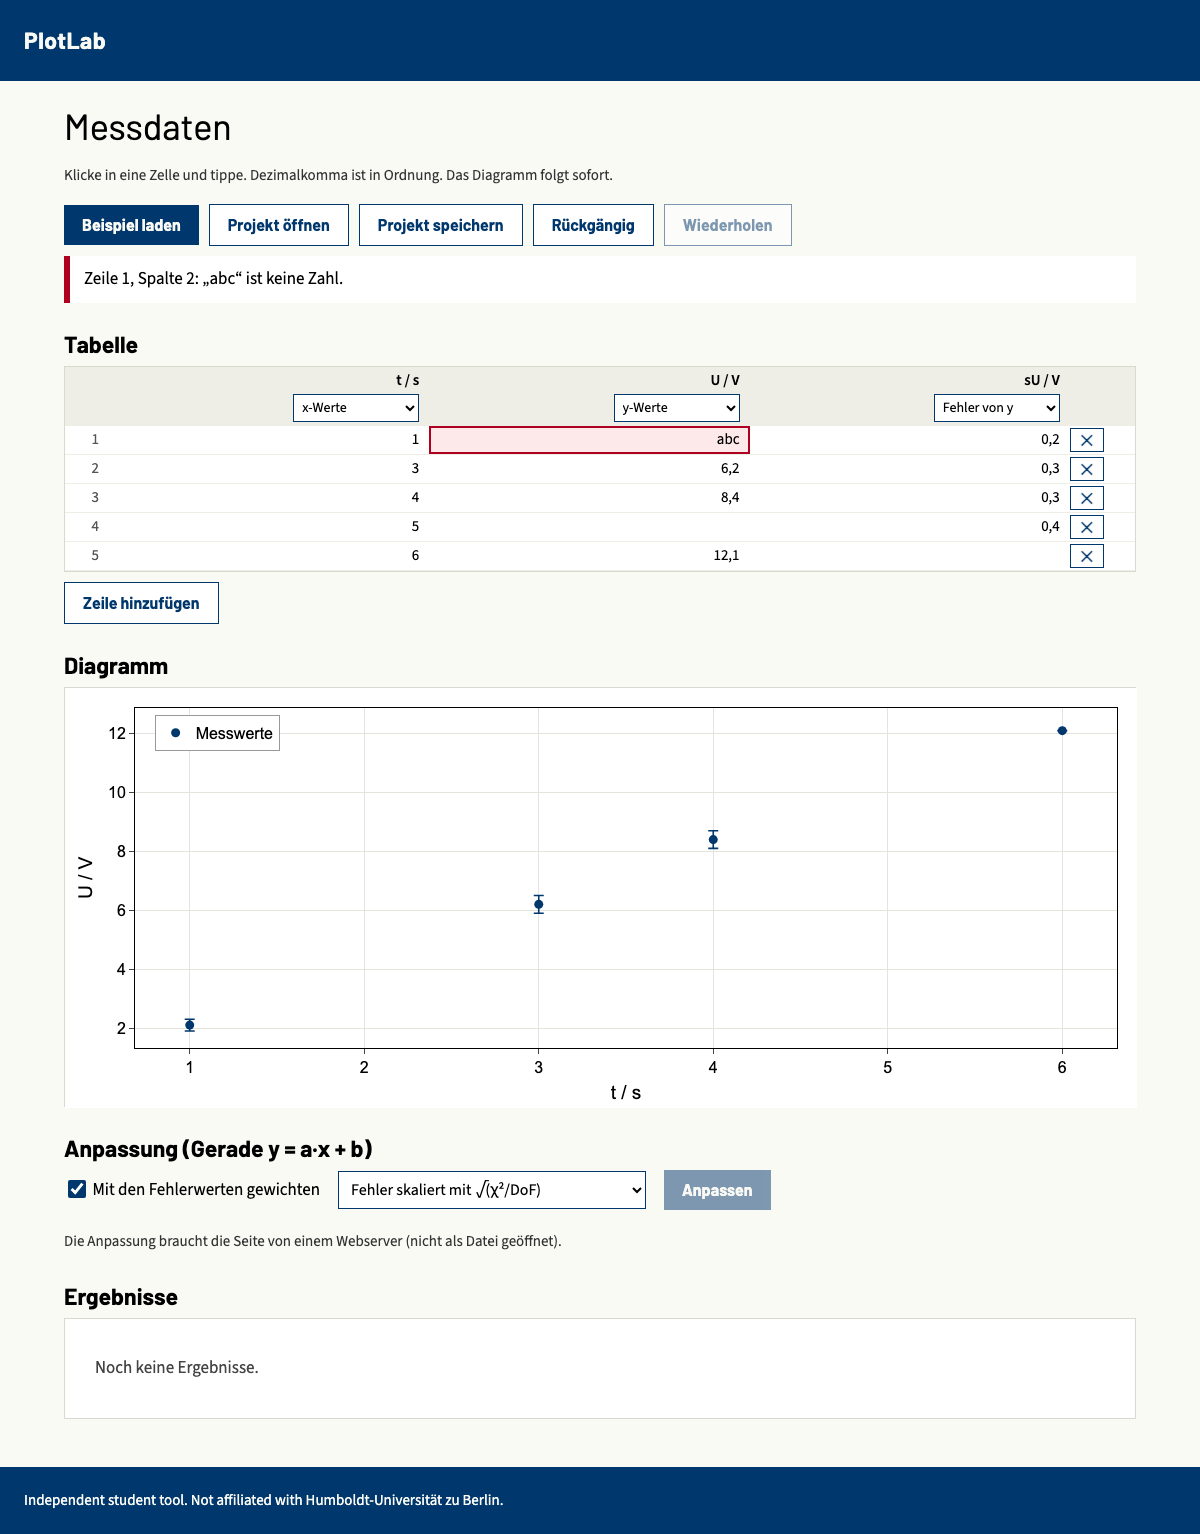
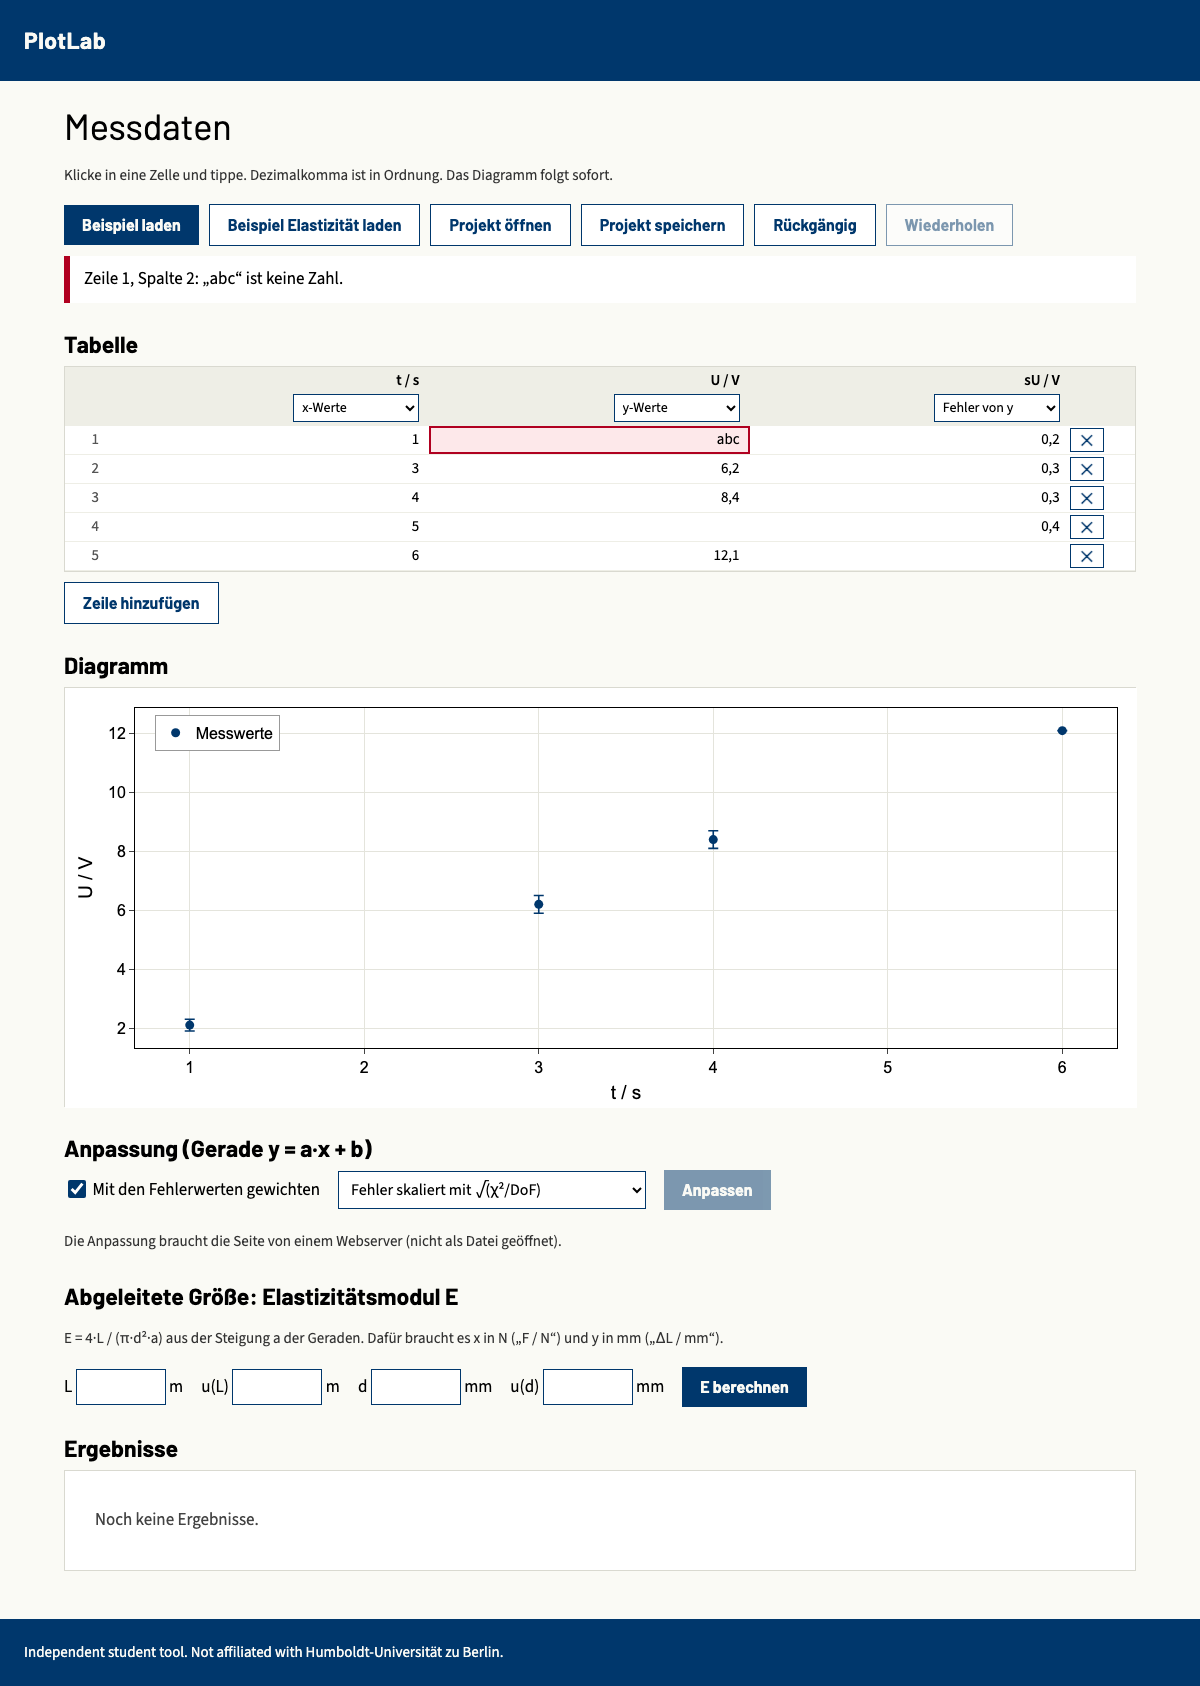
Add Young's modulus from the fitted slope (P3 Elasticity)

diff --git a/app/index.html b/app/index.html
@@ -41,6 +41,8 @@
   #results table { width:auto; margin:8px 0; }
   #results th { position:static; padding:3px 12px; }
   #results td { padding:3px 12px; text-align:right; }
+  input.num { width:90px; padding:6px 8px; font:16px "Source Sans 3", system-ui, sans-serif; text-align:right; border:1px solid var(--blue); border-radius:0; background:#fff; }
+  input.num.bad { background:#fde8ea; border-color:#B00020; }
   td.n { padding:3px 10px; color:#555; text-align:right; width:44px; }
   td input { width:100%; min-width:90px; border:0; border-radius:0; padding:3px 10px; font:inherit; text-align:right; background:transparent; }
   td input:focus { outline:2px solid var(--blue); outline-offset:-2px; background:#fff; }
@@ -62,6 +64,7 @@
   <p class="hint">Klicke in eine Zelle und tippe. Dezimalkomma ist in Ordnung. Das Diagramm folgt sofort.</p>
   <div class="btns">
     <button class="btn" id="example">Beispiel laden</button>
+    <button class="btn alt" id="example2">Beispiel Elastizität laden</button>
     <label class="btn alt">Projekt öffnen<input id="openfile" type="file" accept=".json,.plotlab" hidden></label>
     <button class="btn alt" id="saveproj" disabled>Projekt speichern</button>
     <button class="btn alt" id="undo" disabled title="Strg/Cmd+Z">Rückgängig</button>
@@ -85,6 +88,16 @@
     <span class="hint" id="fitstate">Rechenmodul (SciPy) wird geladen …</span>
   </div>
   <div id="fitmsg" class="msg" role="alert" hidden></div>
+  <h2>Abgeleitete Größe: Elastizitätsmodul E</h2>
+  <p class="hint">E = 4·L / (π·d²·a) aus der Steigung a der Geraden. Dafür braucht es x in N („F / N“) und y in mm („ΔL / mm“).</p>
+  <div class="fitbar" id="young">
+    <label>L <input class="num" id="y_L" aria-label="Drahtlänge L in m" inputmode="decimal"> m</label>
+    <label>u(L) <input class="num" id="y_uL" aria-label="Unsicherheit u(L) in m" inputmode="decimal"> m</label>
+    <label>d <input class="num" id="y_d" aria-label="Drahtdurchmesser d in mm" inputmode="decimal"> mm</label>
+    <label>u(d) <input class="num" id="y_ud" aria-label="Unsicherheit u(d) in mm" inputmode="decimal"> mm</label>
+    <button class="btn" id="derive">E berechnen</button>
+  </div>
+  <div id="derivemsg" class="msg" role="alert" hidden></div>
   <h2>Ergebnisse</h2>
   <div id="results"><div class="empty">Noch keine Ergebnisse.</div></div>
 </main>
@@ -92,10 +105,13 @@
 <script src="../testbuild/vendor/plotly.min.js"></script>
 <script src="../testbuild/round.js"></script>
 <script src="project.js"></script>
+<script src="derive.js"></script>
 <script>
 const $ = id => document.getElementById(id);
 const esc = s => String(s).replace(/[&<>"]/g, c => ({ "&": "&amp;", "<": "&lt;", ">": "&gt;", '"': "&quot;" }[c]));
 const fmt = new Intl.NumberFormat("de-DE", { maximumFractionDigits: 10 });
+// Steel wire, load F in N against extension in mm: slope about 0.0255 mm/N, so E is about 200 GPa for L = 1 m, d = 0.5 mm.
+const EXAMPLE2 = [["F / N", "ΔL / mm", "sΔL / mm"], [[10, 0.26, 0.02], [20, 0.50, 0.02], [30, 0.77, 0.02], [40, 1.03, 0.02], [50, 1.28, 0.02], [60, 1.51, 0.02]]];
 const EXAMPLE = [["t / s", "U / V", "sU / V"], [[1, 2.1, 0.2], [2, 4.3, 0.2], [3, 6.2, 0.3], [4, 8.4, 0.3], [5, 9.9, 0.4]]];
 const ROLE_LABELS = { x: "x-Werte", y: "y-Werte", yerr: "Fehler von y", unused: "nicht verwendet" };
 let proj = null;
@@ -191,6 +207,12 @@ function fitDetail(r) {
   return `<table><thead><tr><th>Parameter</th><th>Wert</th><th>Fehler skaliert</th>${r.weighted ? "<th>Fehler unskaliert</th>" : ""}</tr></thead><tbody>${rows}</tbody></table>` +
     `<div class="detail" data-how>Methode: ${how}. Freiheitsgrade: ${f.format(r.dof)}. ` + (r.weighted ? `χ² = ${f.format(r.chi2)}, χ²/DoF = ${f.format(r.chi2 / r.dof)}.` : `Summe der Abweichungsquadrate = ${f.format(r.ssr)}.`) + "</div>";
 }
+function derivedDetail(r) {
+  const f = new Intl.NumberFormat("de-DE", { maximumSignificantDigits: 3 }), un = proj.settings.errMethod === "unscaled" && r.weighted;
+  const rel = [0, 1, 2].map(i => ((un ? r.relUnscaled : r.relScaled) || [])[i]).map(v => f.format(v * 100) + " %");
+  return `<div class="detail" data-how>Rechnung: E = 4·L / (π·d²·a), u(E)/E = √((u(L)/L)² + (2·u(d)/d)² + (u(a)/a)²). ` +
+    `Beiträge: u(L)/L = ${rel[0]}, 2·u(d)/d = ${rel[1]}, u(a)/a = ${rel[2]}. Fehler von a: ${un ? "unskaliert" : "skaliert bzw. aus der Streuung"}.</div>`;
+}
 function renderResults() {
   if (!proj.results.length) { $("results").innerHTML = '<div class="empty">Noch keine Ergebnisse.</div>'; return; }
   $("results").innerHTML = proj.results.map(r => {
@@ -199,7 +221,7 @@ function renderResults() {
       const u = uOf(q), t = huRound(q.value, u);
       return `<div class="res">${esc(q.name)} = ${t ? `(${t[0]} ± ${t[1]})` : fmt.format(q.value)}${q.unit ? " " + esc(q.unit) : ""}</div>`;
     }).join("");
-    return `<div class="result${stale ? " stale" : ""}">${stale ? '<div class="msg stalemsg">Die Daten wurden geändert. Dieses Ergebnis ist veraltet. Bitte neu anpassen.</div>' : ""}${lines}${r.kind === "fit" && r.dof ? fitDetail(r) : ""}</div>`;
+    return `<div class="result${stale ? " stale" : ""}">${stale ? '<div class="msg stalemsg">Die Daten wurden geändert. Dieses Ergebnis ist veraltet. Bitte neu anpassen.</div>' : ""}${lines}${r.kind === "fit" && r.dof ? fitDetail(r) : ""}${r.kind === "derived" ? derivedDetail(r) : ""}</div>`;
   }).join("");
 }
 // Weighting needs an error column; errors method only matters for a weighted fit.
@@ -209,7 +231,8 @@ function syncControls() {
   $("wlabel").classList.toggle("off", !has);
   $("wlabel").title = has ? "" : "Dafür braucht es eine Spalte mit der Rolle „Fehler von y“.";
   $("errm").value = proj.settings.errMethod || "scaled"; $("errm").disabled = !w;
-  $("fitmsg").hidden = true;
+  $("fitmsg").hidden = true; $("derivemsg").hidden = true;
+  for (const k of ["L", "uL", "d", "ud"]) { const v = (proj.settings.young || {})[k]; $("y_" + k).value = v == null ? "" : fmt.format(v); $("y_" + k).classList.remove("bad"); }
 }
 function render() { renderTable(); renderPlot(); renderResults(); syncControls(); autosave(); }
 
@@ -249,6 +272,11 @@ $("table").addEventListener("click", e => {
 });
 $("addrow").onclick = () => { change(() => proj.columns.forEach(c => c.values.push(null))); $("table").querySelector("tr:last-child input")?.focus(); };
 $("example").onclick = () => setProject(newProject(...EXAMPLE));
+$("example2").onclick = () => {
+  const p = newProject(...EXAMPLE2);
+  p.settings.young = { L: 1, uL: 0.002, d: 0.5, ud: 0.01 };
+  setProject(p);
+};
 $("saveproj").onclick = () => {
   const a = document.createElement("a");
   a.href = URL.createObjectURL(new Blob([save(proj)], { type: "application/json" }));
@@ -297,6 +325,37 @@ $("fit").onclick = () => {
   pending = { fp: fingerprint(proj), weighted, weightedSetting: proj.settings.weighted, n: idx.length, names: [["a", per], ["b", uy]] };
   $("fit").disabled = true; $("fitmsg").hidden = true;
   worker.postMessage({ model: "line", x: idx.map(i => x.values[i]), y: idx.map(i => y.values[i]), sy: weighted ? idx.map(i => e.values[i]) : null });
+};
+// Inputs for the derived quantity live in the project settings. Typing in one field is one undo step.
+$("young").addEventListener("input", e => {
+  if (!e.target.matches("input.num")) return;
+  const v = parseCell(e.target.value), k = e.target.id.slice(2);
+  e.target.classList.toggle("bad", v === undefined);
+  if (v === undefined) return;
+  if (editKey !== "young." + k) { pushUndo(); editKey = "young." + k; }
+  proj.settings.young = { ...(proj.settings.young || {}), [k]: v };
+  renderResults(); autosave();
+});
+$("young").addEventListener("focusout", () => { editKey = null; });
+function deriveFailed(why) { $("derivemsg").textContent = why; $("derivemsg").hidden = false; }
+$("derive").onclick = () => {
+  const x = col("x"), y = col("y"), fit = freshFit(), yg = proj.settings.young || {};
+  if (!fit) return deriveFailed("Bitte zuerst „Anpassen“ drücken. Das Ergebnis der Geradenanpassung fehlt oder ist veraltet.");
+  const unit = c => (c.name.split("/")[1] || "").trim();
+  if (unit(x) !== "N" || unit(y) !== "mm") return deriveFailed("Für E muss die x-Spalte in N und die y-Spalte in mm angegeben sein, zum Beispiel „F / N“ und „ΔL / mm“.");
+  for (const [k, label] of [["L", "L"], ["uL", "u(L)"], ["d", "d"], ["ud", "u(d)"]])
+    if (yg[k] == null) return deriveFailed(`Bitte ${label} eintragen.`);
+  if (!(yg.L > 0 && yg.d > 0)) return deriveFailed("L und d müssen größer als 0 sein.");
+  if (!(yg.uL >= 0 && yg.ud >= 0)) return deriveFailed("u(L) und u(d) dürfen nicht negativ sein.");
+  const a = fit.params[0];
+  if (!(a.value > 0)) return deriveFailed("Die Steigung muss größer als 0 sein, damit E berechnet werden kann.");
+  const calc = ua => youngModulus({ a: a.value, ua, L: yg.L, uL: yg.uL, d: yg.d, ud: yg.ud });
+  const s = calc(a.uScaled), u = fit.weighted ? calc(a.uUnscaled) : null;
+  change(() => addResult(proj, {
+    kind: "derived", weighted: fit.weighted,
+    params: [{ name: "E", unit: "GPa", value: s.E, uScaled: s.uE, ...(u ? { uUnscaled: u.uE } : {}) }],
+    relScaled: s.rel, relUnscaled: (u || s).rel,
+  }));
 };
 $("weighted").onchange = e => setSetting("weighted", e.target.checked);
 $("errm").onchange = e => setSetting("errMethod", e.target.value);

diff --git a/app/project.js b/app/project.js
@@ -24,8 +24,9 @@ function addResult(p, result) {
   p.results.push({ ...result, settings: { ...p.settings }, computedFrom: fingerprint(p) });
 }
 
-// Stale when the data changed or when weighting was switched after the fit.
-const isStale = (p, r) => r.computedFrom !== fingerprint(p) || (r.settings || {}).weighted !== p.settings.weighted;
+// Stale when the data changed, weighting was switched after the fit, or (derived results) the extra inputs changed.
+const isStale = (p, r) => r.computedFrom !== fingerprint(p) || (r.settings || {}).weighted !== p.settings.weighted ||
+  (r.kind === "derived" && JSON.stringify((r.settings || {}).young) !== JSON.stringify(p.settings.young));
 
 const save = p => JSON.stringify(p, null, 1);
 

diff --git a/app/derive.js b/app/derive.js
@@ -1,0 +1,9 @@
+// P3 Elasticity: Young's modulus from the slope a (mm/N) of extension against load, E = 4·L / (π·d²·a).
+// L in m, d in mm: E comes out in GPa (1 m, 1 mm, 1 mm/N gives 4/π GPa). L, d and a are independent, so the
+// relative uncertainties add in quadrature: (uE/E)² = (uL/L)² + (2·ud/d)² + (ua/a)².
+function youngModulus({ a, ua, L, uL, d, ud }) {
+  const E = 4 * L / (Math.PI * d * d * a);
+  const rel = [uL / L, 2 * ud / d, ua / a];
+  return { E, uE: E * Math.sqrt(rel.reduce((s, r) => s + r * r, 0)), rel };
+}
+if (typeof module !== "undefined") module.exports = { youngModulus };

diff --git a/docs/progress.md b/docs/progress.md
@@ -12,7 +12,7 @@ Phase 0 is finished (see `docs/phase0-report.md`; its steps are in the Log). Pha
 - [x] 3. Undo and redo (buttons and Ctrl/Cmd+Z, Shift+Ctrl/Cmd+Z) for cell edits, row changes and fit settings. Test: edit, undo, redo; plot and result revert and return.
 - [x] 4. Autosave in the browser and restore after a reload or a closed tab, with a clear "Wiederhergestellt" note. Test: edit, reload, nothing lost.
 - [x] 5. Column roles chosen by the student (X, Y, y error, x unused), stored in the project, driving plot and fit. Weighted and unweighted line fit with scaled and unscaled errors, χ²/DoF and the method on screen (as in step 3 of Phase 0).
-- [ ] 6. P3 Elasticity: a derived quantity from the fitted slope with a propagated uncertainty, in HU format. Read the P3 entry in `docs/lab-assignments-checklist.md` and the research in `docs/research/` for the formula and units. Test with a hand calculation.
+- [x] 6. P3 Elasticity: a derived quantity from the fitted slope with a propagated uncertainty, in HU format. Read the P3 entry in `docs/lab-assignments-checklist.md` and the research in `docs/research/` for the formula and units. Test with a hand calculation.
 - [ ] 7. Weighted-fit numbers checked against an independent reference: NIST linear regression (Norris, unweighted) and hand calculation for the weighted case. R is not installed, so the R comparison in the gate is marked "needs Luis" under Blocked, but do not stop for it.
 - [ ] 8. Timed end-to-end test of P3: open, paste data, set roles, fit, read the result line, save. Record the time of the automated run and the number of clicks, next to the same task in Excel from the checklist. Write `docs/phase1-report.md` with the gate results. Gate items that need R or a real student go under "For Luis". Keep STATUS: RUNNING and write the Phase 2 steps from the roadmap.
 
@@ -51,3 +51,4 @@ Phase 0 is finished (see `docs/phase0-report.md`; its steps are in the Log). Pha
 - 2026-10-14, Phase 1 step 4: The app now saves the whole project (data, column roles, settings, fit results) in the browser after every change. After a reload or a new tab it comes back with the note "Wiederhergestellt: Dein letzter Stand wurde automatisch geladen.", which goes away on the next edit. A fit result that was out of date stays out of date. Tested in a real browser (`tests/phase1-step4-autosave.sh`, 25 hand-typed checks): edit, add a row, reload, nothing lost; undo is saved too. Bad cases: a damaged saved state is dropped with "Der automatisch gespeicherte Stand war beschädigt und wurde verworfen."; a browser that refuses to store (private window, full) shows a warning that stays on screen and the app keeps working. Found and fixed while judging the screenshot: that warning vanished at the first keystroke, so it now has its own box. All 11 checks in `scripts/check.sh` pass. Screenshots `evidence/phase1-step4-autosave.png`, `-nostorage.png` judged OK. Limits: the undo history is not kept over a reload; there is one autosave slot per browser (loading the example or opening a file replaces it), and no "start empty" button yet.
 - 2026-10-14, Phase 1 step 5: In the app, the student now picks a role for each column right in the table header (x-Werte, y-Werte, Fehler von y, nicht verwendet); the roles are saved in the project and drive plot axes and fit, and undo restores them. "Anpassen" fits a straight line y = a·x + b with SciPy in the browser. Weighted fits show both errors (scaled with √(χ²/DoF) and unscaled), χ² and χ²/DoF; the error method can be switched and the page names the method. Unweighted fits say so and show the sum of squares. The fit line appears in the plot with a legend entry; any data or weighting change greys the result out as out of date and removes the line, and undo brings both back. Tested in a real browser against closed-form formulas typed by hand (`tests/phase1-step5-fit.sh`): weighted a = 2,00941, u scaled 0,0625 (unscaled 0,0886), b = 0,18235, χ²/DoF = 0,498; unweighted (ordinary least squares) slope, intercept and both errors match to 1e-5 relative. Result line (hand-rounded): a = (2,01 ± 0,06) V/s. Bad cases give clear messages: error value 0 (names the row), no x or y column, fewer than 3 points; an edit made while Python is still calculating is refused instead of being attached to the new data. All 12 checks in `scripts/check.sh` pass. Screenshots `evidence/phase1-step5-fit.png` and `-error.png` judged OK (axis labels with units, German numbers, points and line distinct, legend, error bars). Changed: `isStale` in `app/project.js` now also counts a switched weighting. Not yet: the fit still reads the SciPy engine and fonts from `testbuild/`; the example data has no derived quantity (step 6); no Michaelis-Menten in `app/` (Phase 2).
 - 2026-10-14, security fix on step 5: an automatic review found that the fit details in `app/index.html` printed the degrees of freedom from a project file without escaping, so a hand-edited project file (or damaged autosave) could run a script in the page. It is now formatted as a number. `tests/phase1-step5-fit.sh` now opens a project file with script text in every result field, also after an autosave restore: with the old code the script ran (test failed), with the fix nothing is injected (test passes). Also made the test server answer cleanly after a failed request. All 12 checks pass.
+- 2026-10-14, Phase 1 step 6: A student can now load "Beispiel Elastizität" (steel wire, load F in N against extension in mm), fit the line, enter the wire length L and diameter d with their uncertainties, press "E berechnen" and read the Young's modulus, for example E = (201 ± 8) GPa. The formula is E = 4·L / (π·d²·a) with the fitted slope a; the uncertainty adds the relative errors of L, 2·d and a in quadrature, and the page shows each share (0,2 %, 4 %, 1,15 %). It uses the scaled or unscaled slope error, whichever is selected (unscaled gives (201 ± 9) GPa). E goes out of date when data, weighting or an input changes; undo and reload keep it. Tested in a real browser (`tests/phase1-step6-elasticity.sh`) against numbers calculated separately in plain Python from the formulas, not by the app: a = 0,0252857 mm/N, u(a) 0,000290 (scaled) and 0,000478 (unscaled), χ²/DoF 0,369, E = 201,416 GPa, u(E) = 8,39 (scaled) and 8,92 (unscaled). The formula alone is also checked on a case that can be done in the head (E = 4/π GPa, relative error 0,3). Bad cases give clear messages: no fit yet or stale fit, an empty or non-numeric input, wrong column units (needs N and mm). All 13 checks in `scripts/check.sh` pass. Screenshots `evidence/phase1-step6-elasticity.png` and `-error.png` judged OK. Not yet: the shear modulus from oscillation periods and the loading/unloading comparison from the P3 sheet; a general formula column with error propagation comes in Phase 2.

diff --git a/CHANGELOG.md b/CHANGELOG.md
@@ -2,6 +2,12 @@
 
 Written in plain language for people who do not read code. Newest entry on top.
 
+## 2026-10-14: Young's modulus from the fitted slope (P3 Elasticity)
+
+- **What a student can now do:** fit load against extension, enter the wire length and diameter with their uncertainties and get the Young's modulus, for example E = (201 ± 8) GPa. The page shows the formula and how much each input adds to the uncertainty. An example ("Beispiel Elastizität") is built in.
+- **Tested:** `tests/phase1-step6-elasticity.sh` compares the result with numbers calculated separately by hand. It passed, together with all older tests. Clear messages for a missing fit, empty or wrong inputs and wrong column units.
+- **Not covered yet:** the shear modulus from oscillation periods and the comparison of loading and unloading from the lab sheet; no free formulas yet.
+
 ## 2026-10-14: Safer project files
 
 - **What was fixed:** a project file that someone had edited by hand could make the page run unwanted code when its fit result was shown. Numbers from a file are now always shown as numbers.
